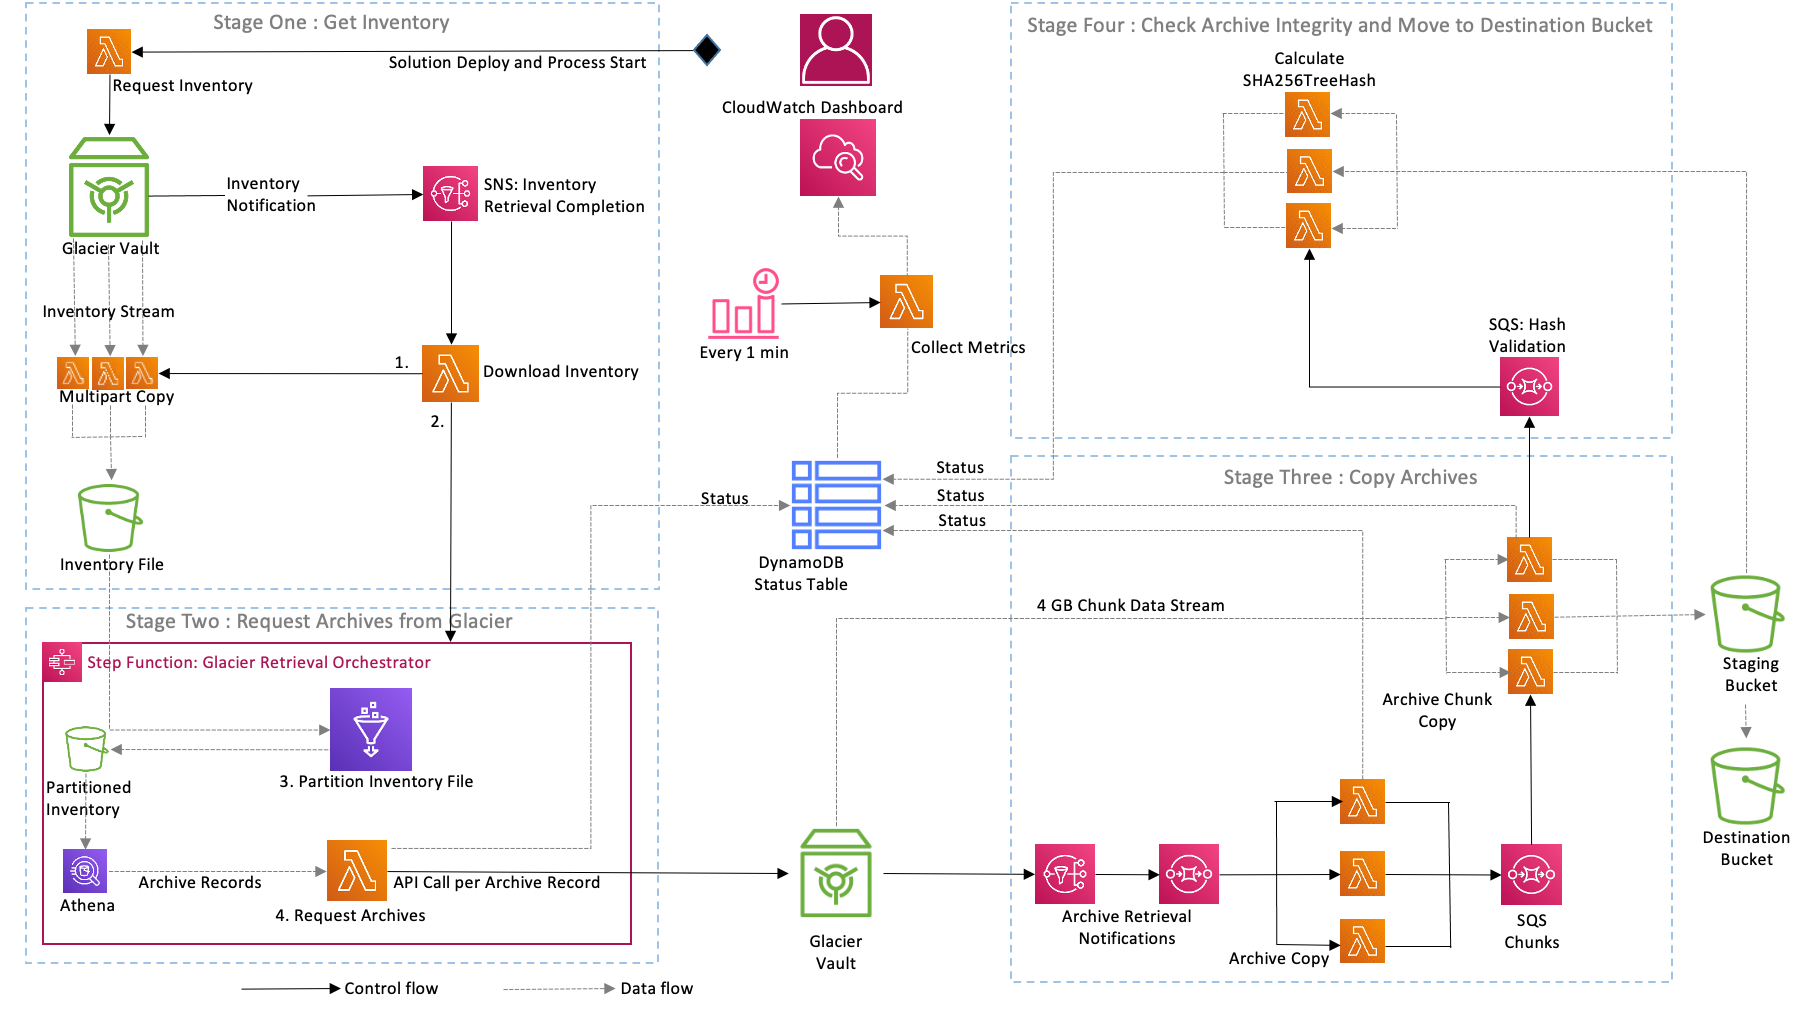
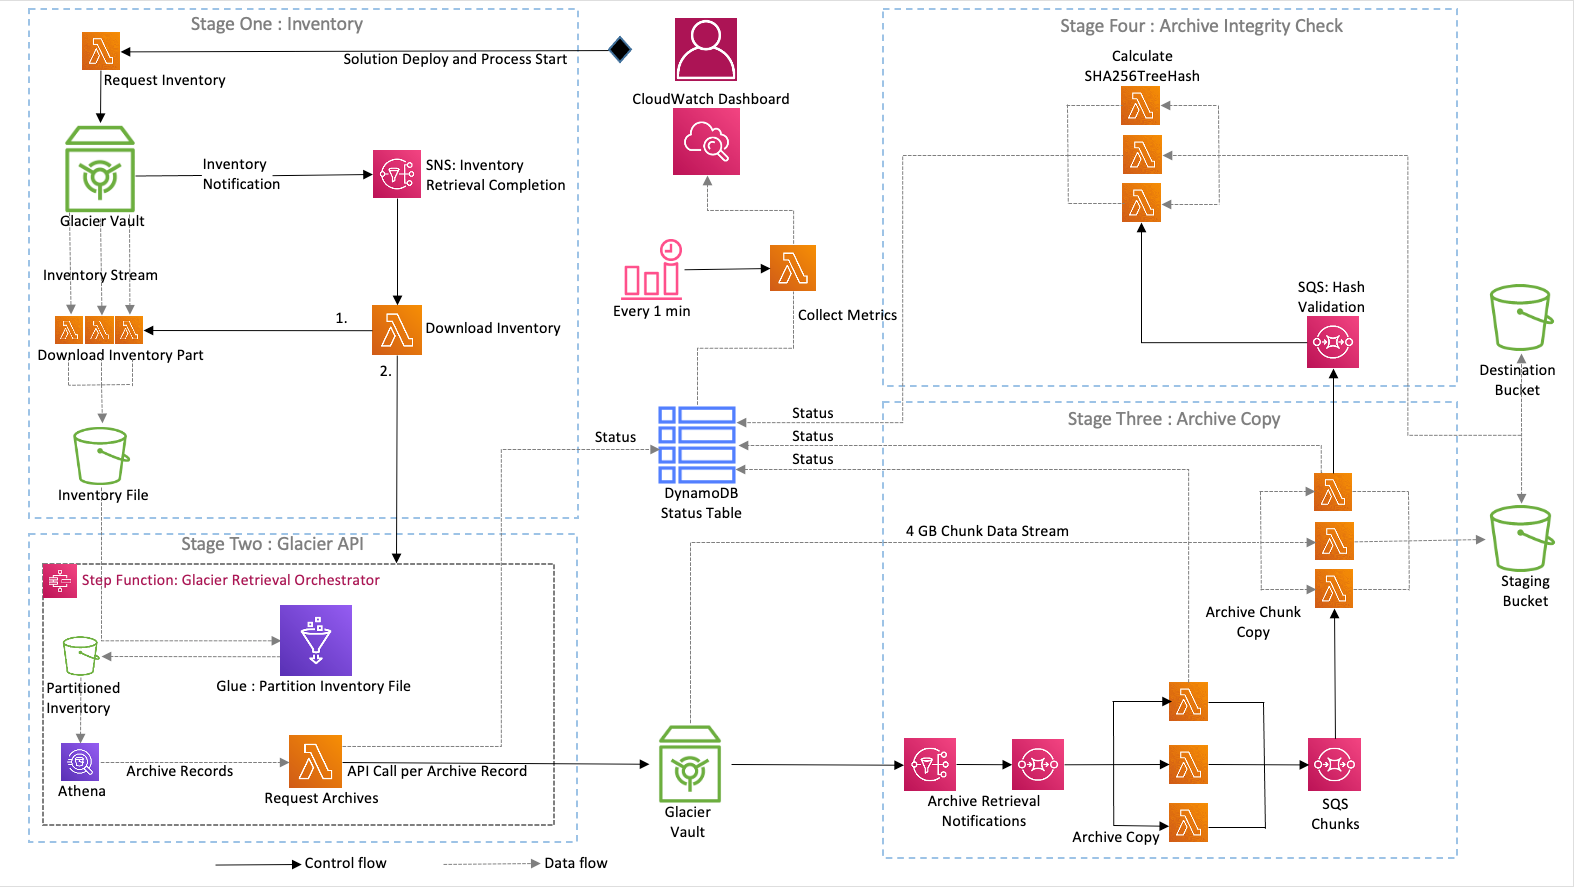
Updated readme architecture diagram

diff --git a/README.md b/README.md
@@ -53,7 +53,7 @@ In Stage Two the solution will then parse and partition the Glacier Vault invent
 
 Once a Glacier Vault archive has been retrieved and is available for the download, the solution initiates the archive copy process to the staging S3 bucket's S3-Standard storage class.
 
-If the archive is larger than 4GB, the solution calculate the number of the chunks, open a multipart upload request and submit the each chunk request into a separate download-chunk-queue. A separate asynchrnous lambda function will read from the queue, download each chunk separately, and, if the chunk is identified to be the last one through the DynamoDB status table, close off the multi part upload.
+If the archive is larger than 4GB, the solution calculates the number of the 4 GB chunks, opens a multipart upload request and submits each chunk as a separate request into a download-chunk-queue. Another asynchrnous lambda function will read from the queue, download each chunk, and, if the chunk has identified to be the last one through the DynamoDB status table, close off the multi part upload.
 
 ### Stage Four: Validation and Final Move
 
